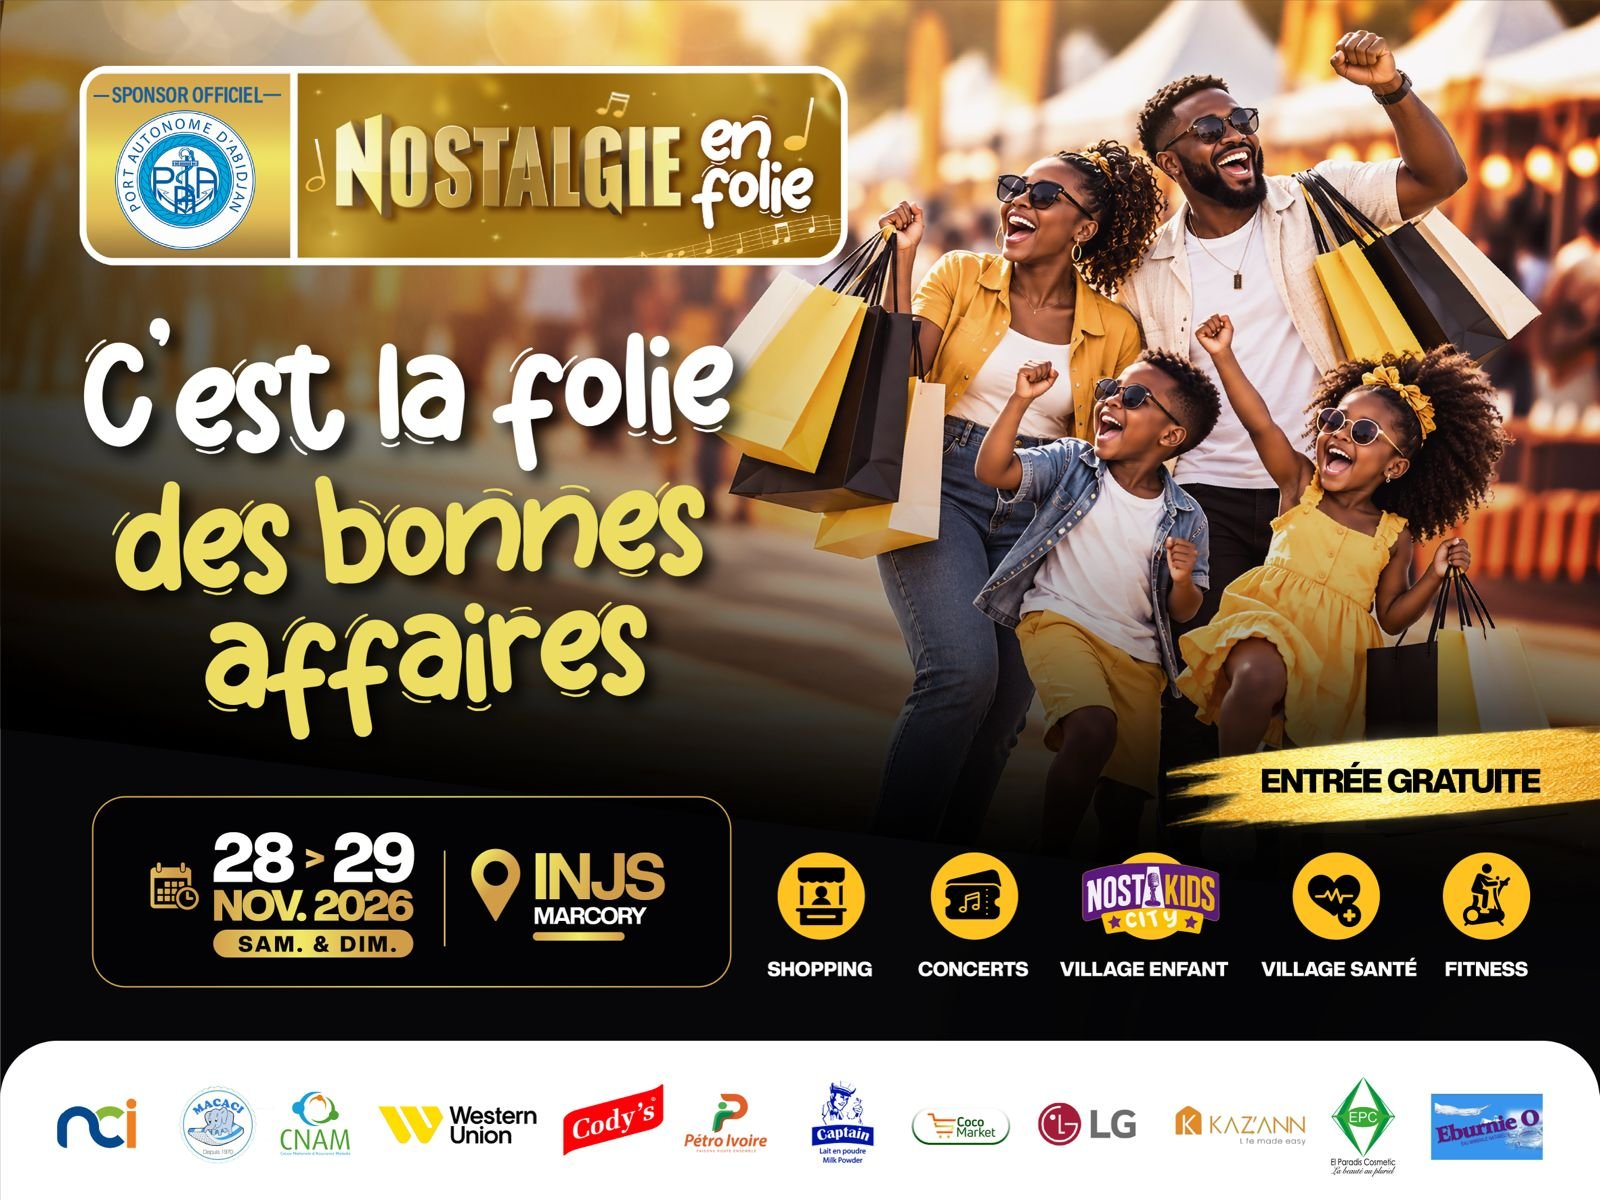
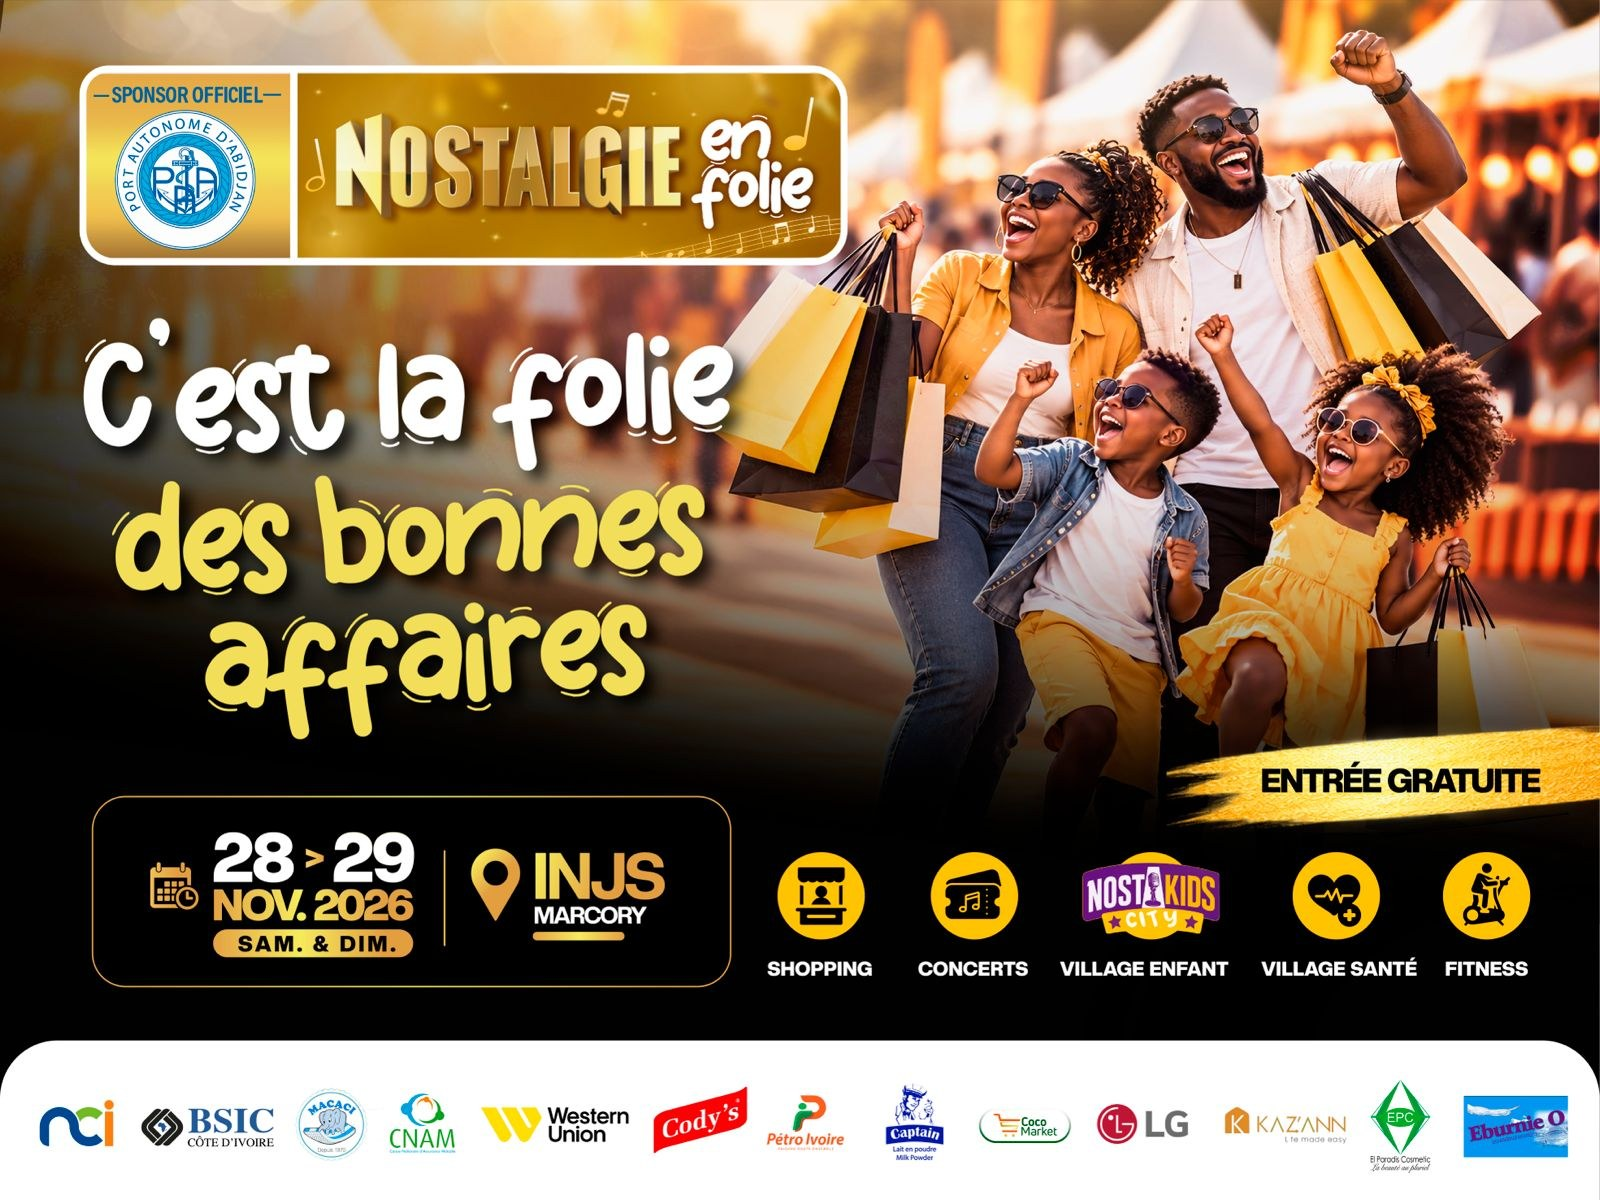
Nostalgie en Folie : nouveaux visuels (BSIC ajoute aux partenaires)

diff --git a/src/components/NefHero.tsx b/src/components/NefHero.tsx
@@ -133,7 +133,7 @@ export default function NefHero() {
         <p className="nef-part-t">Avec nos partenaires</p>
         {/* 2e copie : sert uniquement au défilement en boucle sur mobile */}
         <div className="nef-part-track">
-          <img src="/img/nef-partenaires.jpg" alt="Partenaires de Nostalgie en Folie : NCI, MACACI, CNAM, Western Union, Cody's, Pétro Ivoire, Captain, Coco Market, LG, Kaz'ann, El Paradis Cosmetic, Eburnie O" />
+          <img src="/img/nef-partenaires.jpg" alt="Partenaires de Nostalgie en Folie : NCI, BSIC Côte d'Ivoire, MACACI, CNAM, Western Union, Cody's, Pétro Ivoire, Captain, Coco Market, LG, Kaz'ann, El Paradis Cosmetic, Eburnie O" />
           <img src="/img/nef-partenaires.jpg" alt="" aria-hidden className="nef-part-dup" />
         </div>
       </div>
